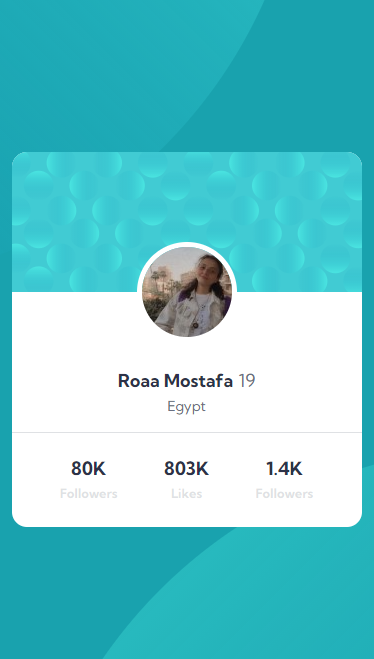
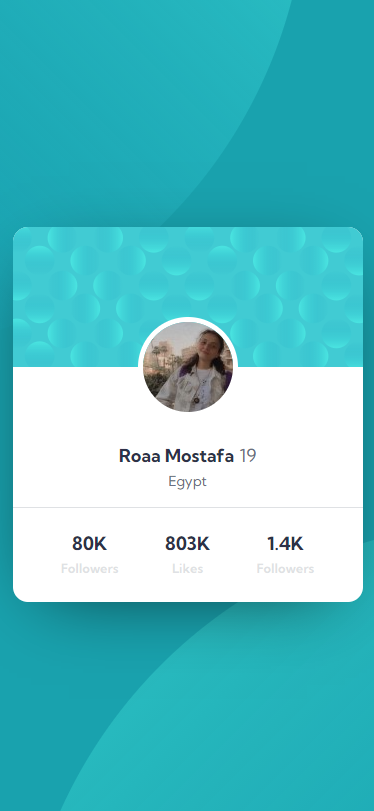
screenshots updated

diff --git a/css/main.css b/css/main.css
@@ -33,6 +33,9 @@ body {
   height: 375px;
   border-radius: 15px;
   overflow: hidden;
+  -webkit-box-shadow: 0px 16px 77px -30px rgba(0,0,0,0.75);
+-moz-box-shadow: 0px 16px 77px -30px rgba(0,0,0,0.75);
+box-shadow: 0px 16px 77px -30px rgba(0,0,0,0.75);
 }
 .upper-card {
   height: 200px;
